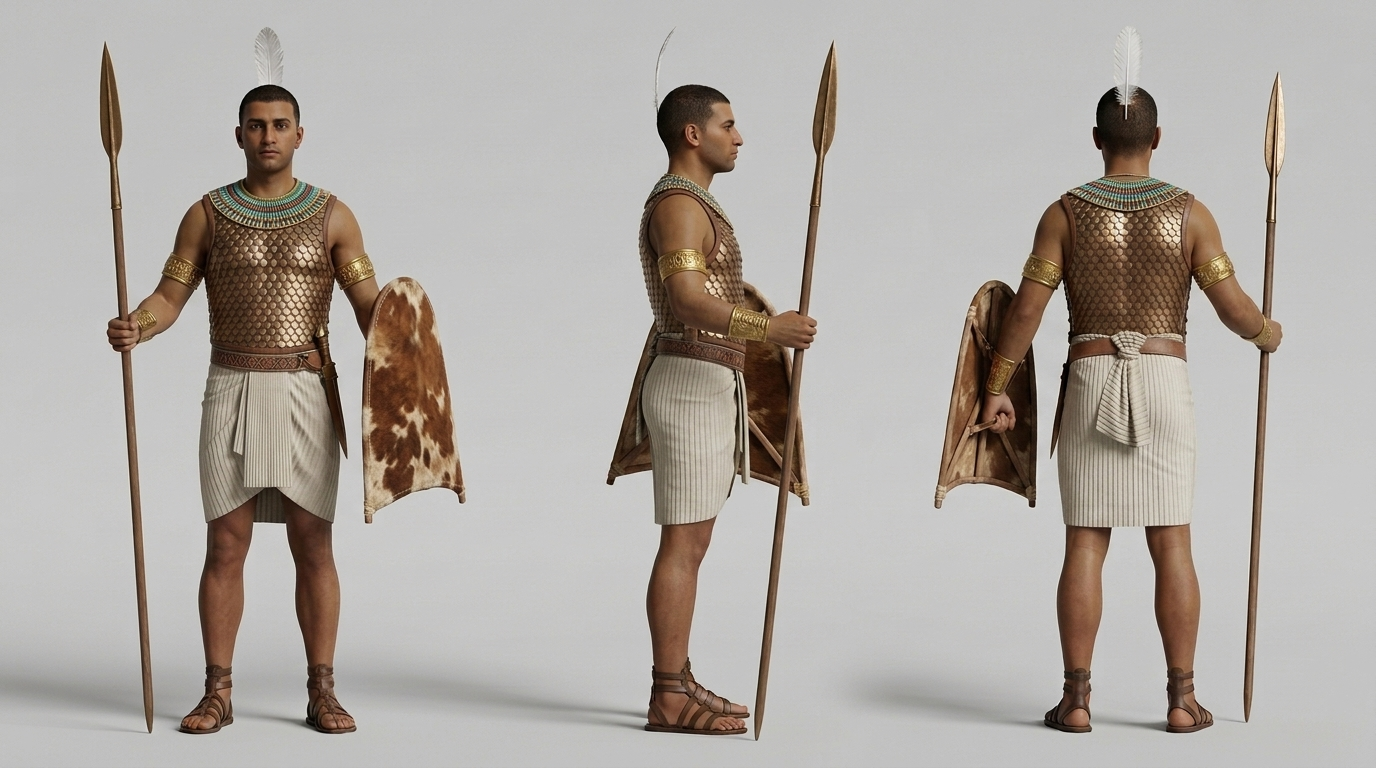
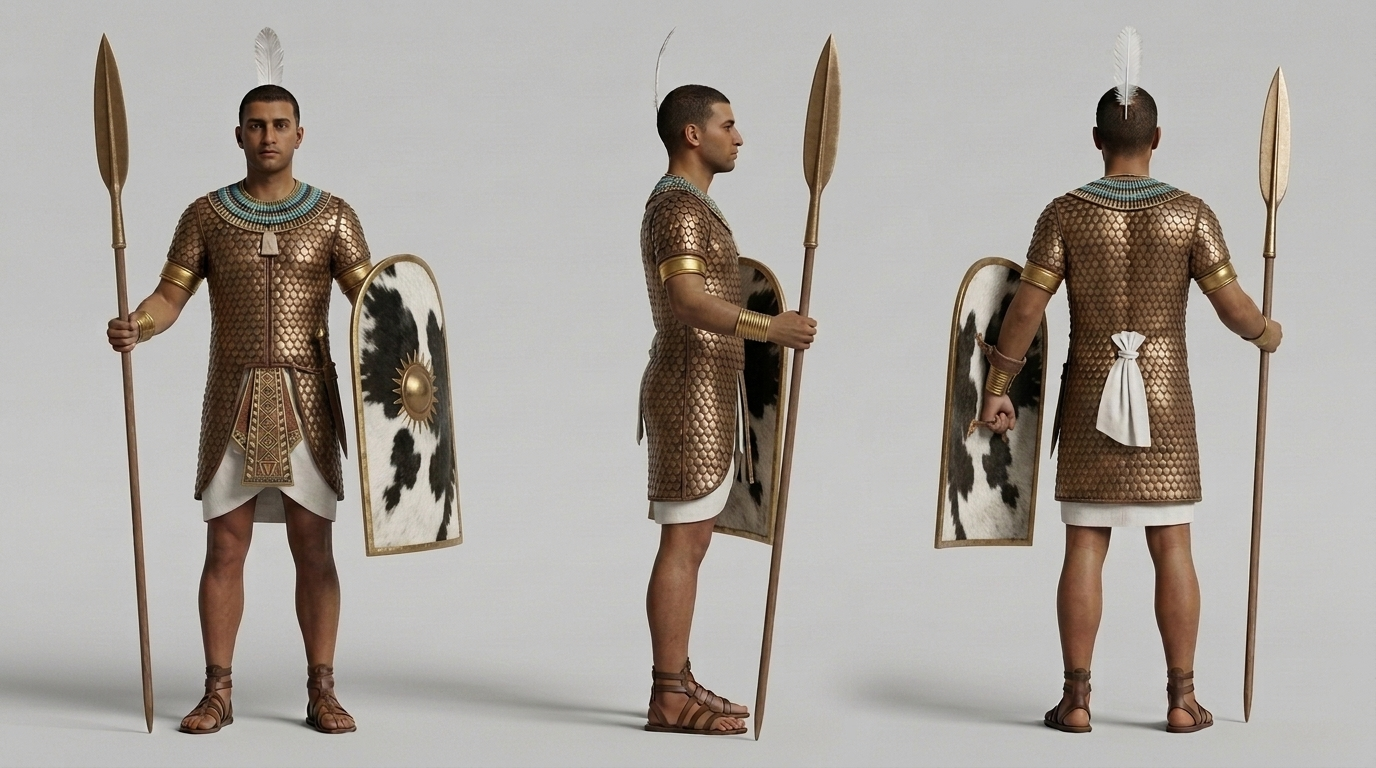
Put the Medjay line together from the chosen sheets
The first tier is the Medjay as he was, with a new small oval cowhide
shield; the second wears the leather corselet with bronze plates of
the elite archer sample, with the spear in his right hand and the
khopesh at his hip as in another elite sample, and a new rounded-top
shield; the third wears the long bronze scale coat of the royal guard
sample with a new tall shield with a sun-disc boss and a new spear.

The samples they were taken from are kept in refs/medjay/sources and
attached by the roster, each with a note on what to take from it, so
the sheets can be made again.

Claude-Session: https://claude.ai/code/session_014VBYXxiG2Wapix7xffbVix

diff --git a/tools/refs/roster.py b/tools/refs/roster.py
@@ -132,16 +132,43 @@ ROSTER = [
         'ichor vein to the nail at the right ankle, fists clenched.')),
 
     # ── Kemet ─────────────────────────────────────────────────────────────────
-    dict(id='medjay-1', faction='egypt', kind='figure', name='Medjay', subject=(
+    # The Medjay were put together from chosen sheets kept in refs/medjay/sources: the first tier as he was
+    # with a new shield, the second in the archer's armour with the spear and sword of one elite sample, the
+    # third in the royal guard's armour with a new shield and spear.
+    dict(id='medjay-1', faction='egypt', kind='figure', name='Medjay', ref=['medjay/sources/medjay-1-base.png'],
+         note=('The attached sheet shows this same Medjay: keep the man exactly as he is there (face, build, skin, hair '
+               'and feather, necklace, kilt, belt and dagger, sandals, the spear in his right hand) in the same pose '
+               'and rendering. Replace his shield completely: remove the tall round-topped shield on the wooden frame '
+               'and give him the new small oval shield this prompt describes, a different shape and size.'), subject=(
         'A Medjay desert scout and policeman, c. 1300 BC: a man of Arab appearance with medium olive-brown skin, short '
-        'cropped dark hair with an ostrich feather, a white linen kilt with a leather belt, sandals; a spear about 2 m '
-        'long with a bronze leaf blade and a small cowhide shield.')),
-    dict(id='medjay-2', faction='egypt', kind='figure', name='Veteran Medjay', subject=(
-        'A veteran Medjay: a leather corselet sewn with bronze scales over the kilt, a cowhide shield with a rounded '
-        'top, a bronze khopesh at the belt, and the spear.')),
-    dict(id='medjay-3', faction='egypt', kind='figure', name='Elite Medjay', subject=(
-        'A Medjay officer: a pleated linen kilt with a triangular apron, a broad bead collar, a bronze scale corselet, '
-        'gold armlets, a cowhide shield, a khopesh at the belt and the spear.')),
+        'cropped dark hair with an ostrich feather, a white linen kilt with a leather belt, sandals, no shirt and no '
+        'armour; a spear about 2 m long with a bronze leaf blade in the right hand, and in the left hand a small oval '
+        'shield only about 60 cm tall and 40 cm wide, an egg-shaped oval with no corners, of black-and-white cowhide '
+        'laced round its rim with a rawhide thong, held by a grip at its centre.')),
+    dict(id='medjay-2', faction='egypt', kind='figure', name='Veteran Medjay',
+         ref=['medjay/sources/elite-desert-archer.png', 'medjay/sources/elite-same-prompt.png'],
+         note=('Attached sheets, in order: the first shows an elite Medjay archer: copy his armour exactly, the tan '
+               'leather corselet with its plain leather yoke and edging and its straight rows of small flat bronze '
+               'plates, and take none of his bow, quiver, feathers, armlets or apron. The second '
+               'shows an elite Medjay: take only how he holds his spear upright in his right hand and the khopesh in '
+               'its sheath at his hip, and none of his feathers, collar, armlets, armour or shield.'), subject=(
+        'A veteran Medjay: the same man as the first tier, his single ostrich feather, white kilt, belt and sandals, '
+        'wearing a sleeveless corselet of tan leather with a plain leather yoke over the shoulders and a leather band '
+        'round its lower edge, sewn between them with straight horizontal rows of small flat rectangular bronze plates '
+        'with slightly rounded lower ends (not round fish scales); the spear upright in his right hand, a bronze khopesh in '
+        'its sheath at his left hip, and in his left hand a new shield, not the small oval shield of the first tier: '
+        'a cowhide shield about 90 cm tall and 50 cm wide with a rounded top and a straight bottom edge, dappled '
+        'brown and white hide on a wooden frame with a leather edging, held by its grip. Bare arms with no armlets; '
+        'no bow and no quiver.')),
+    dict(id='medjay-3', faction='egypt', kind='figure', name='Elite Medjay', ref=['medjay/sources/elite-royal-guard.png'],
+         note=('The first attached sheet shows a Medjay of the royal guard: take only his armour and dress as this '
+               'prompt lists them, not his shield, his spear or his khopesh.'), subject=(
+        'An elite Medjay of the royal guard: the same man as the first tier, his single ostrich feather, wearing a '
+        'long coat of bronze scales to mid-thigh with short sleeves, a broad bead collar, gold armlets and wristlets, '
+        'and a pleated kilt with a triangular apron below the coat; in his right hand a new spear about 2.2 m long with '
+        'a broad leaf-shaped bronze blade, a gilded socket and a bronze butt-spike, and on his left arm a new shield: '
+        'a tall cowhide shield about 1.1 m with a rounded top, dappled black and white hide edged with a gilded bronze '
+        'rim, and a gilded bronze boss in the shape of a sun disc. No sword in the hands.')),
     dict(id='scorpion-1', faction='egypt', kind='beast', name='Serket Scorpion', subject=(
         'A giant desert scorpion sacred to Serket, about 2.5 m long with the tail: sand-yellow chitin like a deathstalker, '
         'pincers held forward, the segmented tail arched over the back with the sting.')),
